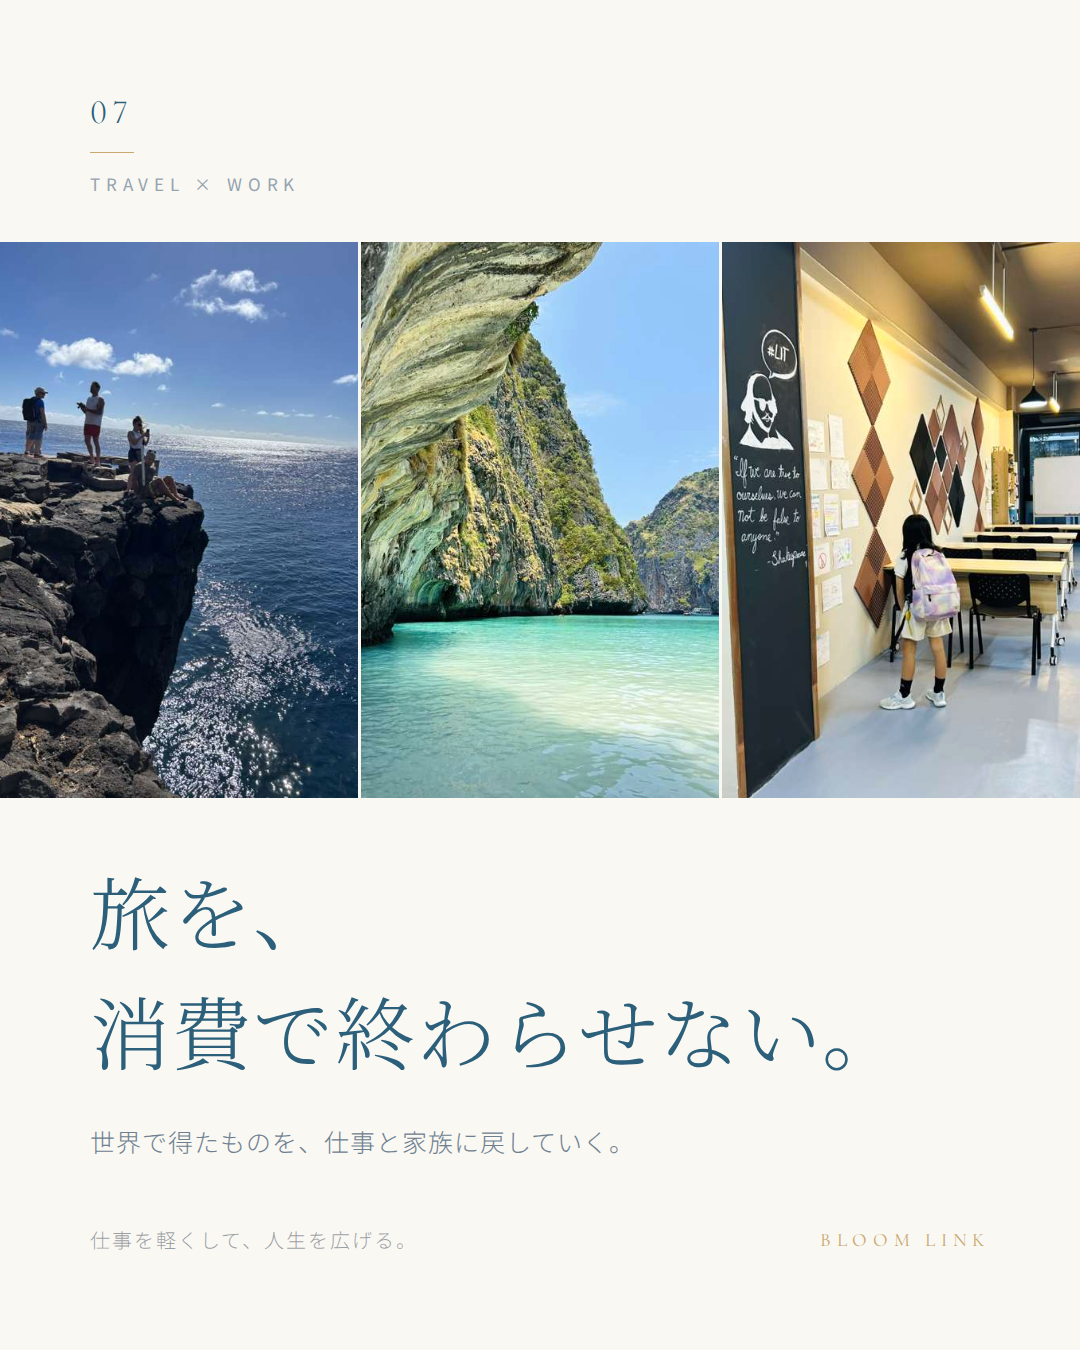
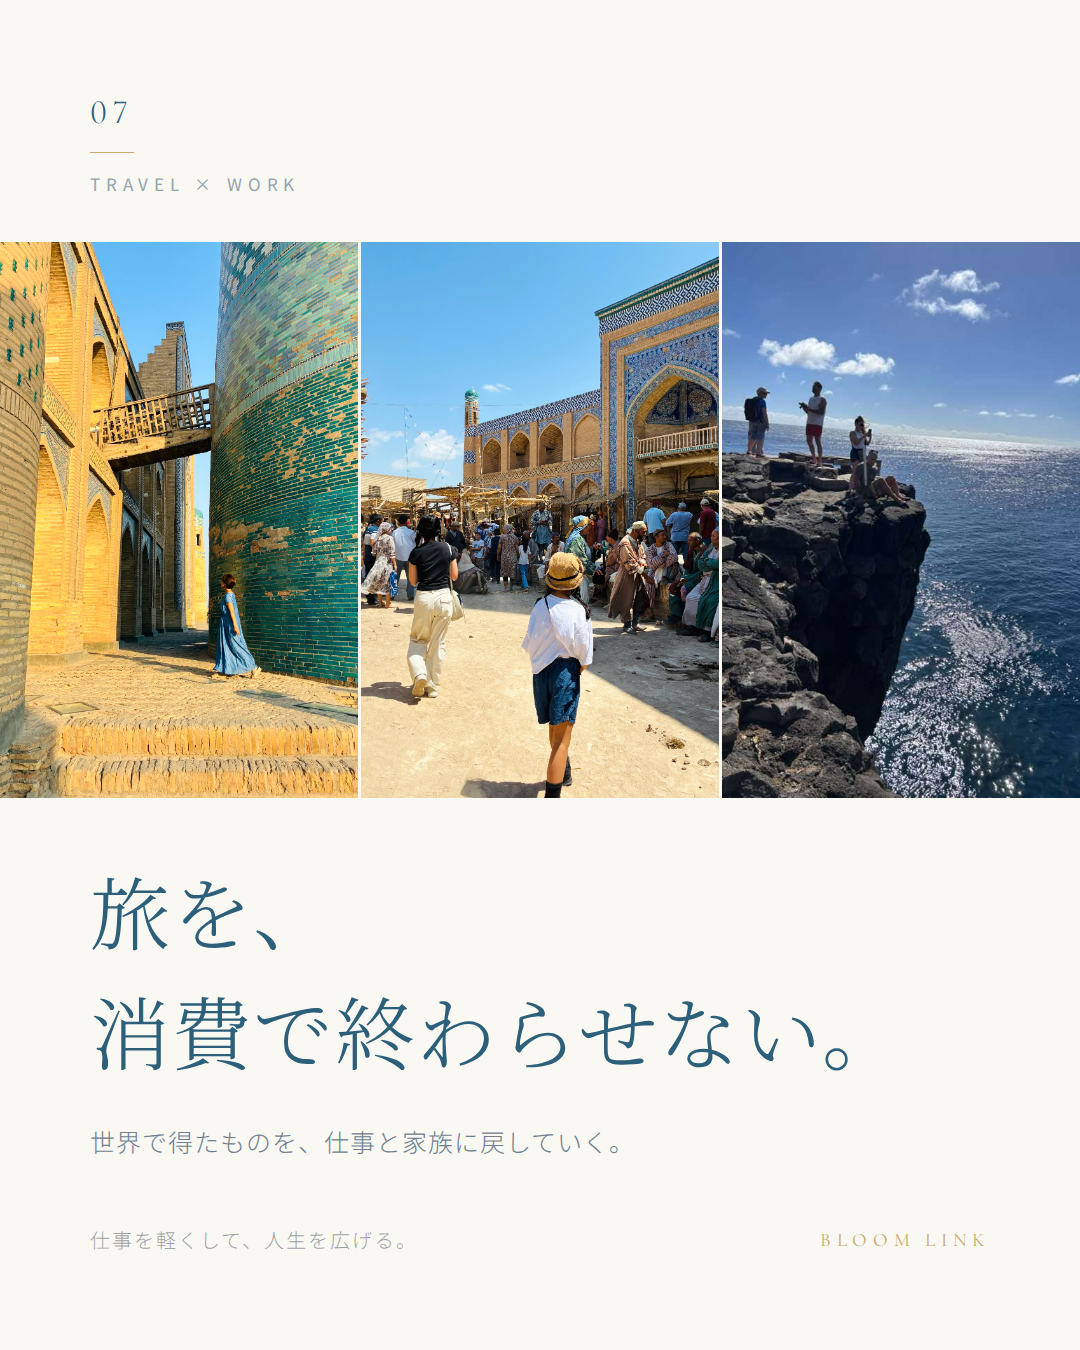
ウズベキスタンの写真3枚を取り込み、07と写真の扱いを整理
アップロードされた写真を元データから取り込んだ。

- 長辺2000pxへ縮小し、撮影時の向き（EXIF）を画素に焼き込む
  scripts/optimize-photos.mjs を追加（npm run ig:photo）
  3枚あわせて19MB→2.2MB。サイトが重くならないようにした
- IMG_*.jpeg を内容がわかる名前へ変更
  uzbekistan-market.jpg / uzbekistan-khiva.jpg / pergola.jpg
- 07の3枚組をウズベキスタン（路地・市場）＋ハワイに差し替え

あわせて、縦長写真を横長の枠に入れると被写体が枠外へ出る問題に対応。
focus / focusBy で残す位置を指定できるようにした。

03は写真全面の型で上半分しか見えないため、被写体が下寄りのヒヴァの写真は
合わなかった。ヒヴァは縦長の枠が活きる07の3枚組へ回し、03はバルセロナのまま。
マルタ・バルセロナ・ハワイを必ず含める条件は維持している。

Claude-Session: https://claude.ai/code/session_018TyEhHEDE4a9HFdLJk5hvJ

diff --git a/src/instagram9/card.js b/src/instagram9/card.js
@@ -64,7 +64,11 @@ export const CARD_CSS = `
   font-feature-settings: 'lnum' 1, 'onum' 0;
 }
 
-.ig-photo { position: absolute; inset: 0; width: 100%; height: 100%; object-fit: cover; filter: ${PHOTO_FILTER}; }
+.ig-photo {
+  position: absolute; inset: 0; width: 100%; height: 100%;
+  object-fit: cover; object-position: var(--focus, 50% 50%);
+  filter: ${PHOTO_FILTER};
+}
 
 /* 写真全面の型。背面に敷いて、文字はこの上のアイボリー面に置く */
 .ig-bleed { position: absolute; inset: 0; z-index: 0; }
@@ -176,8 +180,16 @@ const svg = paths =>
 
 const esc = s => String(s).replace(/&/g, '&amp;').replace(/</g, '&lt;').replace(/>/g, '&gt;')
 
-const img = (base, file, style = '') =>
-  `<img class="ig-photo" src="${base}/travel/${file}" style="${style}" alt="" />`
+/**
+ * 写真1枚。
+ *
+ * 縦長のスマホ写真を横長の枠に入れると、被写体が枠の外へ出てしまうことがある。
+ * focus（object-position）で、どこを残すかを投稿ごとに指定できるようにしている。
+ */
+const img = (base, file, { focus, style = '' } = {}) =>
+  `<img class="ig-photo" src="${base}/travel/${file}"${
+    focus ? ` style="--focus:${focus};${style}"` : style ? ` style="${style}"` : ''
+  } alt="" />`
 
 const head = p => `
     <div class="ig-head">
@@ -221,7 +233,7 @@ const VARIANTS = {
   /** アイボリー地に写真を額装する。余白そのものをデザインにする型。 */
   frame: (p, base) => ({
     mediaClass: 'ig-media--framed',
-    media: img(base, p.photos[0]),
+    media: img(base, p.photos[0], { focus: p.focus }),
   }),
 
   /** 写真なし。タイポグラフィだけで持たせる型。 */
@@ -230,7 +242,7 @@ const VARIANTS = {
   /** 写真全面。暗い加工はせず、明るいアイボリー面を上下に重ねて文字を置く。 */
   photoFull: (p, base) => ({
     behind: `
-    <div class="ig-bleed">${img(base, p.photos[0])}</div>
+    <div class="ig-bleed">${img(base, p.photos[0], { focus: p.focus })}</div>
     <div class="ig-veil ig-veil-top"></div>
     <div class="ig-veil ig-veil-top-fade"></div>`,
     veilBottom: 'fade',
@@ -239,7 +251,7 @@ const VARIANTS = {
   /** 左右いっぱいの写真の帯。額装（frame）との対比でリズムをつくる。 */
   split: (p, base) => ({
     mediaClass: 'ig-media--band',
-    media: img(base, p.photos[0]),
+    media: img(base, p.photos[0], { focus: p.focus }),
   }),
 
   /** 3地域を並べ、「世界へ広がっている」ことを1枚で見せる。 */
@@ -248,7 +260,7 @@ const VARIANTS = {
     media: `<div style="position:absolute;inset:0;display:flex;gap:3px">
         ${p.photos
           .slice(0, 3)
-          .map(f => `<div style="position:relative;flex:1">${img(base, f)}</div>`)
+          .map(f => `<div style="position:relative;flex:1">${img(base, f, { focus: p.focusBy?.[f] })}</div>`)
           .join('\n        ')}
       </div>`,
   }),
@@ -295,7 +307,7 @@ const VARIANTS = {
   /** 着地点。水平線の帯を浅くとり、下に大きく余白を残してコピーで閉じる。 */
   finale: (p, base) => ({
     mediaClass: 'ig-media--band',
-    media: `<div style="position:absolute;top:0;left:0;right:0;height:430px">${img(base, p.photos[0])}</div>`,
+    media: `<div style="position:absolute;top:0;left:0;right:0;height:430px">${img(base, p.photos[0], { focus: p.focus })}</div>`,
     goldHair: true,
   }),
 }

diff --git a/src/instagram9/posts.js b/src/instagram9/posts.js
@@ -111,7 +111,8 @@ ${SERIES_TAGLINE}`,
     sub: '17日間で3カ国へ。それでも、仕事は止まらなかった。',
     headlineSize: 80,
     role: '働き方と世界。海外ノマド自慢にはしない。',
-    photoNote: 'バルセロナ。建築・街並み。人物が小さく入るとなお良い。',
+    // 写真全面の型は上半分しか見えないので、被写体が上寄りの写真を選ぶ
+    photoNote: 'バルセロナ。建築＋本人が画面の上寄りに入っている写真を選ぶ。',
     caption: `03｜働く場所を変えたら、世界が広がった。
 
 オンラインで仕事をつくるようになって、
@@ -264,12 +265,17 @@ ${SERIES_TAGLINE}`,
     no: '07',
     category: 'TRAVEL × WORK',
     variant: 'mosaic',
-    photos: ['hawaii.jpg', 'phiphi.jpg', 'malaysia.jpg'],
+    // 3枚組の列（約358×560）は縦長なので、スマホの縦写真がそのまま活きる
+    photos: ['uzbekistan-khiva.jpg', 'uzbekistan-market.jpg', 'hawaii.jpg'],
+    focusBy: {
+      'uzbekistan-khiva.jpg': '50% 78%',
+      'uzbekistan-market.jpg': '50% 62%',
+    },
     headline: ['旅を、', '消費で終わらせない。'],
     sub: '世界で得たものを、仕事と家族に戻していく。',
     headlineSize: 80,
     role: 'TRAVEL × WORK。キラキラした旅行アカウントにはしない。',
-    photoNote: '複数地域を並べる。マルタ・バルセロナ・ハワイは必ず候補に含める。',
+    photoNote: 'ウズベキスタン（路地・市場）とハワイ。縦長写真がそのまま使える型。',
     caption: `07｜旅を、消費で終わらせない。
 
 旅は、仕事から逃げるための時間ではありません。

diff --git a/docs/instagram-9-posts.md b/docs/instagram-9-posts.md
@@ -123,27 +123,54 @@ npm run ig:fonts     # 表紙のコピーに新しい漢字を足したときだ
 | 03 | `barcelona.jpg` | バルセロナ |
 | 04 | — | 写真なし |
 | 05 | — | 写真なし |
-| 06 | `chiangmai.jpg` | **要差し替え候補**（下記） |
-| 07 | `hawaii.jpg` / `phiphi.jpg` / `malaysia.jpg` | ハワイを含む |
+| 06 | `chiangmai.jpg` | **要差し替え**（下記） |
+| 07 | `uzbekistan-khiva.jpg` / `uzbekistan-market.jpg` / `hawaii.jpg` | ウズベキスタン＋ハワイ |
 | 08 | — | 写真なし |
 | 09 | `malta.jpg` | マルタ |
 
 指示のあった**マルタ（09）・バルセロナ（03）・ハワイ（07）**は入っている。
 ウズベキスタンだけで海外イメージを作らない、という条件も満たしている。
 
+未使用: `pergola.jpg`（09の候補）、`phiphi.jpg`、`malaysia.jpg`、`windowseat.jpg`
+
+### 型に合う写真の向き
+
+**どの型に入れるかで、選ぶ写真が変わる。**
+
+| 型 | 枠の形 | 向いている写真 |
+| --- | --- | --- |
+| 写真全面（03） | 上半分だけが見える | 被写体が**画面の上寄り**にある写真 |
+| 額装（01・06） | 900×560の横長 | 横位置、または被写体が中央の写真 |
+| 3枚組（07） | 約358×560の縦長×3 | **スマホの縦写真がそのまま使える** |
+| 帯（09） | 1080×430の横長 | 水平線・街並みなど横に広がる写真 |
+
+縦長写真を横長の枠に入れると被写体が枠の外へ出るので、
+`focus`（1枚もの）と `focusBy`（3枚組）で残す位置を指定できるようにしてある。
+指定は `'50% 78%'` のような object-position の書き方。
+
+### 写真の取り込み方
+
+スマホから上げた写真は5〜8MBある。そのままだとリポジトリとサイトが重くなるので、
+長辺2000pxへ落として名前を付け直す。撮影時の向き（EXIF）もここで焼き込まれる。
+
+```bash
+npm run ig:photo public/travel/IMG_0237.jpeg uzbekistan-market.jpg
+```
+
 ### 差し替えが必要なもの
 
-1. **解像度** — いま使えるのは web用に圧縮された最大900×800pxの画像で、
-   1080×1350へ引き伸ばして書き出している。**構成を確認するための試作**としては足りるが、
-   実際に投稿する前に元データへ差し替えたい。
-   `public/travel/` に同名で上書きして `npm run ig:render` を流し直せば、それだけで反映される。
+1. **解像度** — ウズベキスタンの2枚は元データから取り込んだので問題ない。
+   残りの `japan` `barcelona` `hawaii` `malta` `chiangmai` は
+   web用に圧縮された最大900×800pxで、1080×1350へ引き伸ばしている。
+   **構成を確認するための試作**としては足りるが、投稿前に元データへ差し替えたい。
+   `npm run ig:photo` で取り込んで同じ名前にすれば、それだけで反映される。
 
 2. **06（PEOPLE）の写真** — いまはチェンマイの親子写真を仮で置いている。
    この回はチーム・人との交流がテーマなので、
    **人が写っている仕事の写真**（チーム、現地の人との交流、日本語学校）に差し替えたい。
+   額装の型なので、横位置か被写体が中央の写真が合う。
 
-3. **ウズベキスタン・インド** — リポジトリに写真がない。
-   07の3枚組はこの2地域に差し替えると、より「世界へ広がっている」感じが強くなる。
+3. **インド** — リポジトリに写真がない。ウズベキスタンは07に入った。
 
 4. **05（AI & SYSTEM）** — 当初は `windowseat.jpg`（機内・PC）を想定したが、
    写り込んでいるものがビジネスアカウントの1枚目としては判断が要るため外し、
